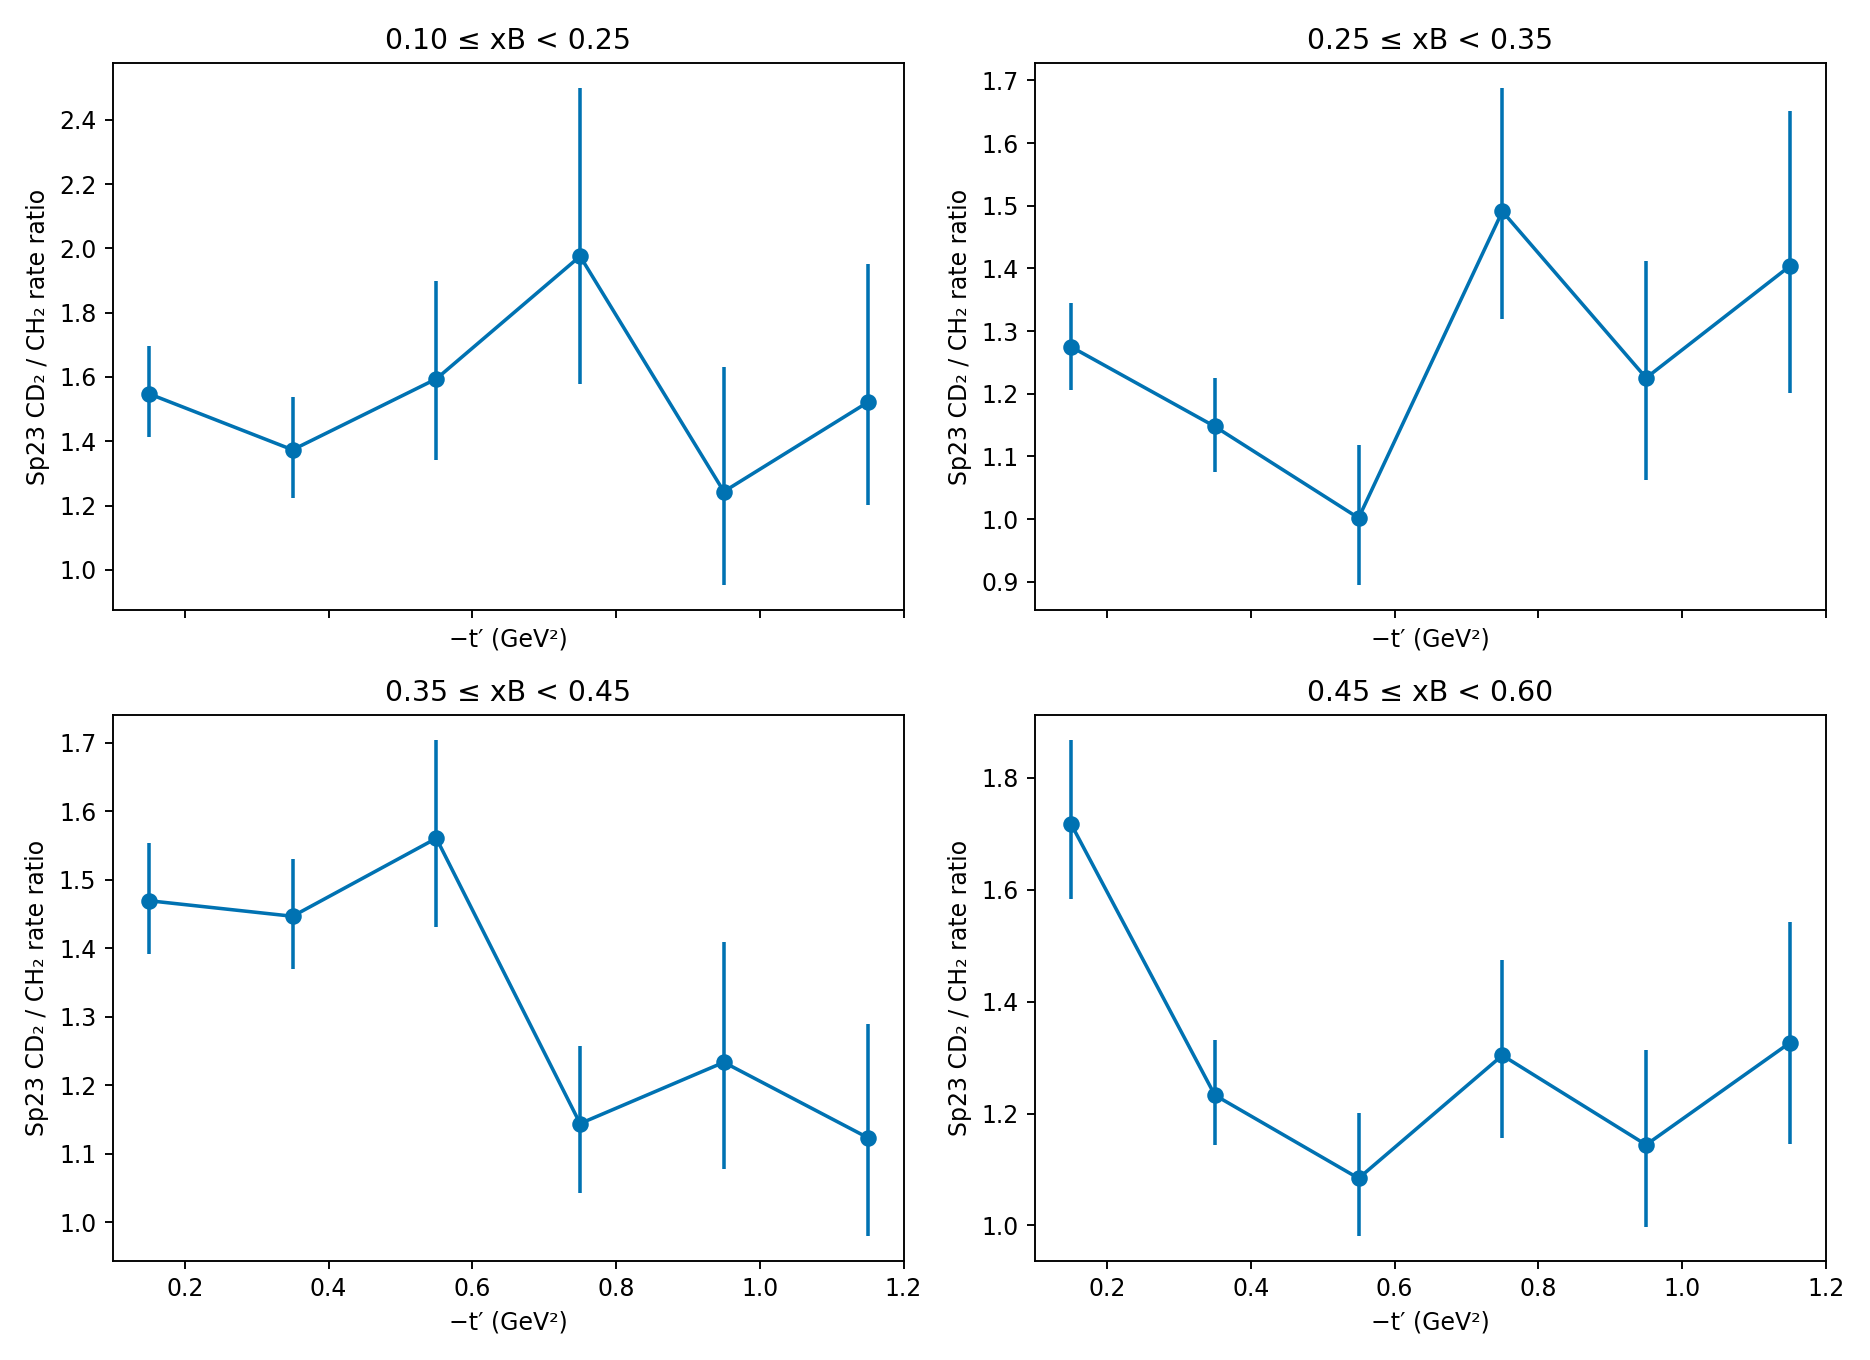
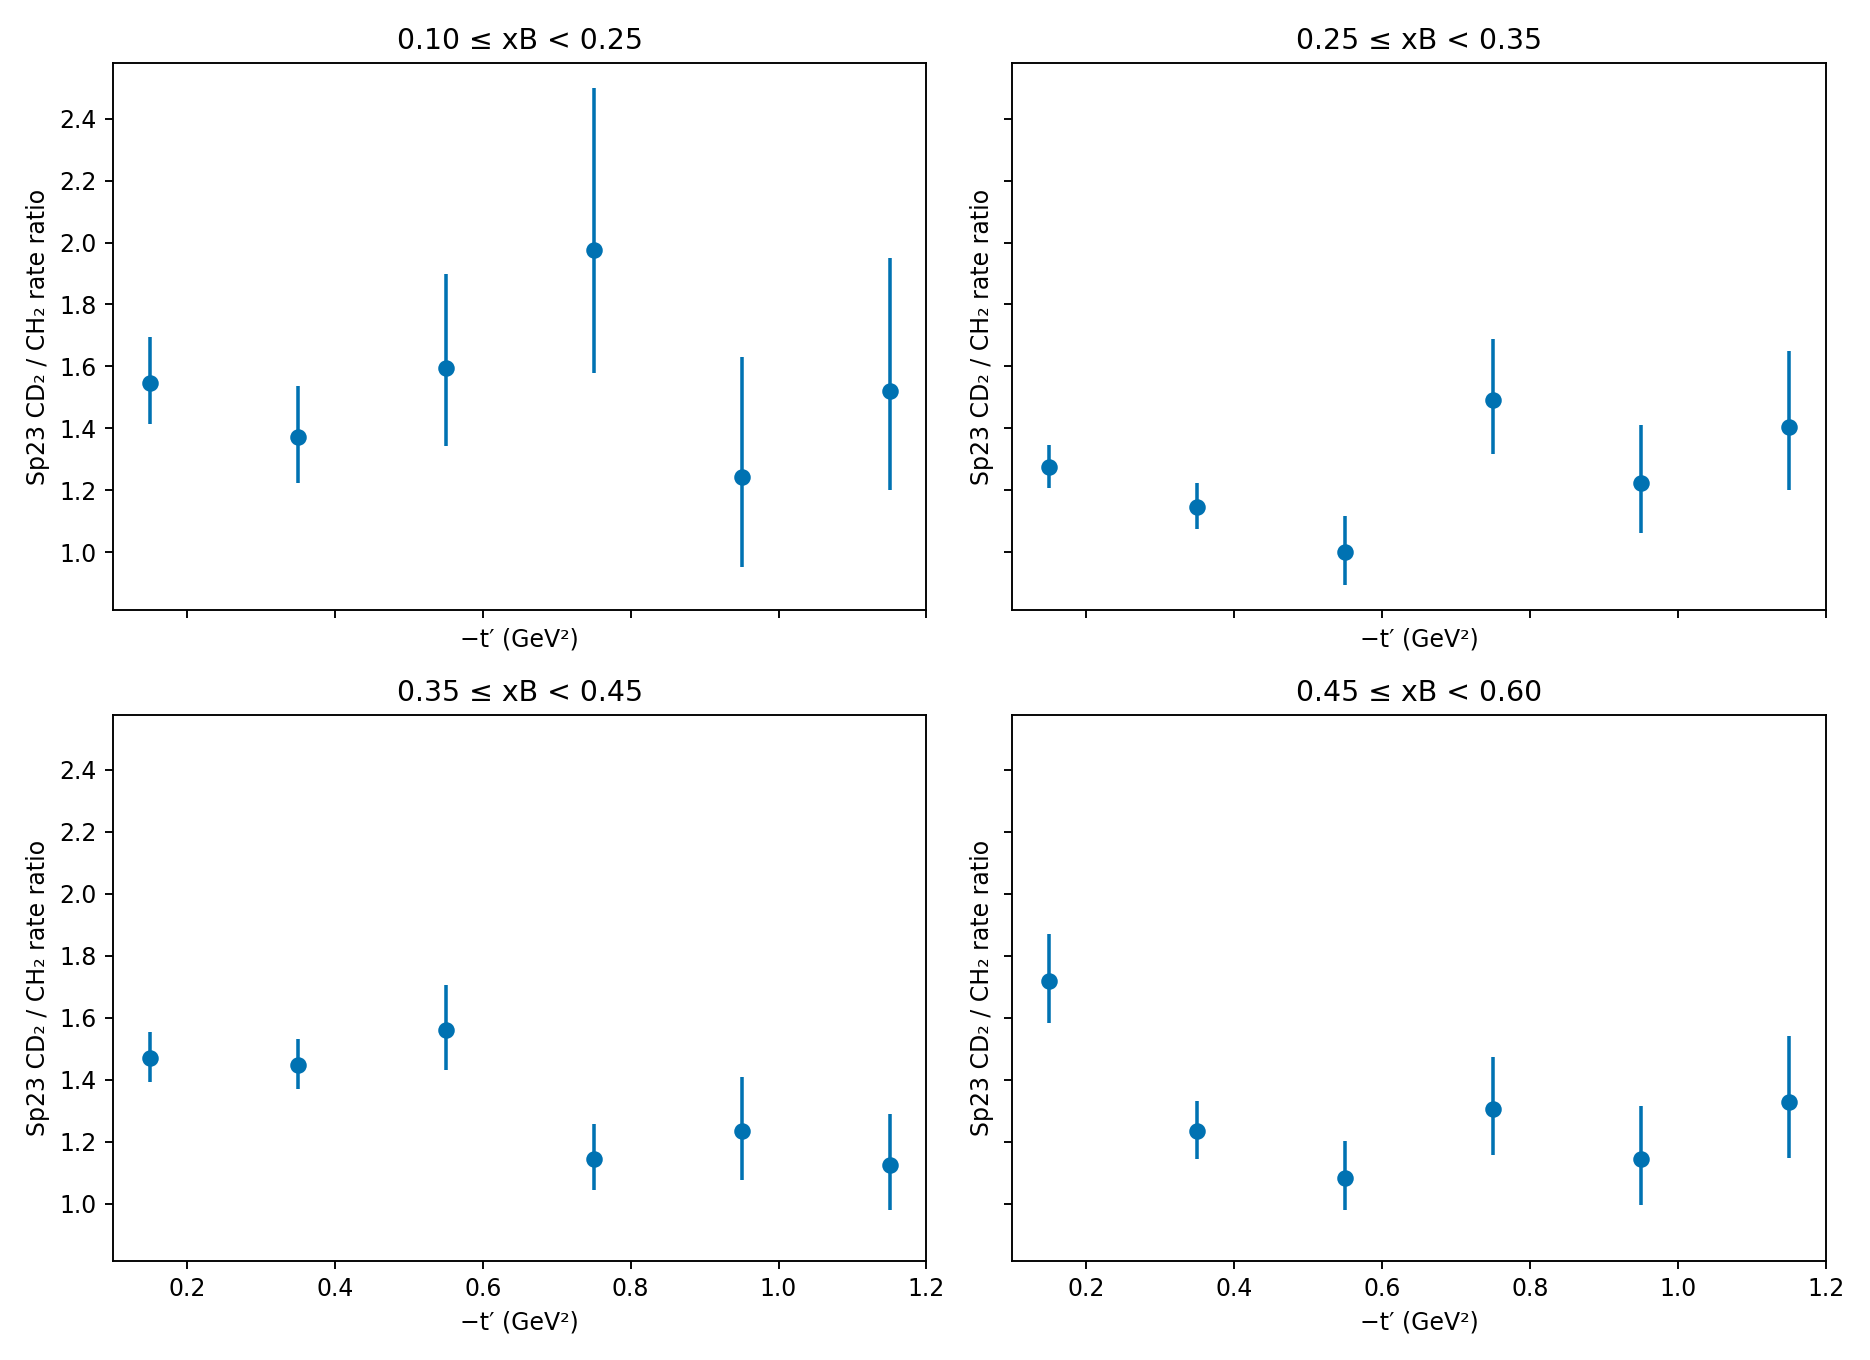
additional implementation of eppi- dilution factor

diff --git a/analysis_scripts/RGC_eppi-/dilution_factor/determine_dilution_factor.py b/analysis_scripts/RGC_eppi-/dilution_factor/determine_dilution_factor.py
@@ -151,7 +151,7 @@ def plots(output, rows, transfer_rows):
     folder.mkdir(exist_ok=True)
     colors = ['#0072B2', '#D55E00', '#009E73']
     for variable, ylabel in [('dilution', 'Dilution factor'), ('packing_fraction', 'Cell packing fraction')]:
-        fig, axes = plt.subplots(2, 2, figsize=(11, 8), sharex=True)
+        fig, axes = plt.subplots(2, 2, figsize=(11, 8), sharex=True, sharey=True)
         for ix, ax in enumerate(axes.flat):
             for label, color in zip(LABELS, colors):
                 values = [r for r in rows if r['period'] == label and (r['bin']-1)//6 == ix]
@@ -160,7 +160,7 @@ def plots(output, rows, transfer_rows):
                 # Quantile intervals remain readable when rare denominator crossings inflate SD.
                 lo = np.array([r[variable+'_q16'] if r[variable+'_q16'] is not None else np.nan for r in values])
                 hi = np.array([r[variable+'_q84'] if r[variable+'_q84'] is not None else np.nan for r in values])
-                ax.plot(x, y, 'o-', ms=4, color=color, label=label)
+                ax.plot(x, y, 'o', ms=4, color=color, label=label)
                 ax.vlines(x, lo, hi, color=color, alpha=.7)
             ax.set_title(f'{XB[ix]:.2f} ≤ xB < {XB[ix+1]:.2f}')
             ax.axhline(0, color='gray', lw=.6)
@@ -170,16 +170,62 @@ def plots(output, rows, transfer_rows):
         fig.tight_layout()
         fig.savefig(folder/(variable+'.png'), dpi=170)
         plt.close(fig)
-    fig, axes = plt.subplots(2, 2, figsize=(11, 8), sharex=True)
+    fig, axes = plt.subplots(2, 2, figsize=(11, 8), sharex=True, sharey=True)
     for ix, ax in enumerate(axes.flat):
         v = transfer_rows[ix*6:(ix+1)*6]
         x = (np.asarray(TP[:-1])+TP[1:])/2
-        ax.plot(x, [r['value'] for r in v], 'o-', color=colors[0])
+        ax.plot(x, [r['value'] for r in v], 'o', color=colors[0])
         ax.vlines(x, [r['stat_q16'] for r in v], [r['stat_q84'] for r in v], color=colors[0])
         ax.set(title=f'{XB[ix]:.2f} ≤ xB < {XB[ix+1]:.2f}', xlabel='−t′ (GeV²)', ylabel='Sp23 CD₂ / CH₂ rate ratio')
     fig.tight_layout()
     fig.savefig(folder/'cd2_ch2_transfer.png', dpi=170)
     plt.close(fig)
+
+
+def control_distributions(output, registry, charges):
+    """Sp23 measured yields, charge normalized. No synthetic CD2 or shape scaling."""
+    import uproot
+    import matplotlib
+    matplotlib.use('Agg')
+    import matplotlib.pyplot as plt
+    edges = np.linspace(TP[0], TP[-1], 25)
+    centers = (edges[:-1]+edges[1:])/2
+    histograms = {}
+    for target in ['CD2', 'CH2']:
+        name = 'RGC_spring2023_'+target
+        hist = np.zeros((4, 24), dtype=np.int64)
+        with uproot.open(registry['files'][name]['path']) as root:
+            for a in root[registry['tree']].iterate(['x', 'tprime'], library='np', step_size='20 MB'):
+                for ix in range(4):
+                    selected = (a['x'] >= XB[ix]) & (a['x'] < XB[ix+1])
+                    hist[ix] += np.histogram(-a['tprime'][selected], bins=edges)[0]
+        if hist.sum() != registry['files'][name]['selected_rows']:
+            raise ValueError(name+': distribution histogram lost selected candidates')
+        histograms[target] = hist
+    fig, axes = plt.subplots(2, 2, figsize=(11, 8), sharex=True, sharey=True)
+    rows = []
+    for ix, ax in enumerate(axes.flat):
+        for target, color, marker in [('CD2', '#0072B2', 'o'), ('CH2', '#D55E00', 's')]:
+            n = histograms[target][ix]
+            q = charges['spring2023'][target]
+            ax.errorbar(centers, 1e6*n/q, yerr=1e6*np.sqrt(n)/q,
+                        fmt=marker, linestyle='none', color=color, markersize=4,
+                        elinewidth=.9, label='Sp23 '+target.replace('2', '₂'))
+            for j, count in enumerate(n):
+                rows.append(dict(target=target, xB_low=XB[ix], xB_high=XB[ix+1],
+                                 minus_tprime_low=edges[j], minus_tprime_high=edges[j+1],
+                                 count=int(count), charge=q, rate=count/q,
+                                 rate_stat=np.sqrt(count)/q))
+        ax.set(title=f'{XB[ix]:.2f} ≤ xB < {XB[ix+1]:.2f}',
+               xlabel='−t′ (GeV²)', ylabel='10⁶ N / Q per bin')
+    ymax = max(np.max(1e6*(histograms[t]+np.sqrt(histograms[t]))/charges['spring2023'][t]) for t in histograms)
+    axes.flat[0].set_ylim(0, 1.08*ymax if ymax > 0 else 1)
+    axes.flat[0].legend()
+    fig.tight_layout()
+    (output/'figures').mkdir(exist_ok=True)
+    fig.savefig(output/'figures/cd2_ch2_distributions.png', dpi=170)
+    plt.close(fig)
+    write_csv(output/'cd2_ch2_distributions.csv', rows)
 
 
 def main():
@@ -271,6 +317,7 @@ def main():
     (out/'method1.json').write_text(json.dumps(clean(payload), indent=2, allow_nan=False)+'\n')
     np.savez_compressed(out/'statistical_covariance.npz', **covariance)
     plots(out, rows, transfer)
+    control_distributions(out, registry, charges)
     flagged = sum(bool(r['flags']) for r in rows)
     print(f'Finished: 72 period/bin estimates, {flagged} flagged for review. Outputs: {out.resolve()}')
     for row in packing_summary:

diff --git a/analysis_scripts/RGC_eppi-/dilution_factor/README.md b/analysis_scripts/RGC_eppi-/dilution_factor/README.md
@@ -39,7 +39,8 @@ Uncertainties assume independent candidate-combination counts, as in pi+. They d
 - `cd2_ch2_transfer.csv`: 24 Sp23 transfer ratios and uncertainties.
 - `packing_fraction_integrated.csv`: integrated cell packing cross-check per period.
 - `statistical_covariance.npz`: 72-by-72 dilution and packing covariance matrices. Order is Su22 bins 1-24, Fa22 bins 1-24, Sp23 bins 1-24. Covariance uses replicas finite in all 72 components. Complete-replica counts are recorded in JSON. The file contains separate DF and PF matrices, not their joint cross-covariance.
-- `figures/dilution.png`, `figures/packing_fraction.png`, `figures/cd2_ch2_transfer.png`.
+- `figures/dilution.png`, `figures/packing_fraction.png`, `figures/cd2_ch2_transfer.png`: unconnected points with matching y-axis ranges across each canvas.
+- `figures/cd2_ch2_distributions.png` and `cd2_ch2_distributions.csv`: measured Sp23 CD2 and CH2 yields divided by their respective good charges, versus minus-tprime in four xB panels. Uses 0.05 GeV² display bins. These do not change the 24-bin dilution calculation. Curves are not area normalized, and no areal-density conversion to nuclear luminosity is applied.
 
 Check `cutset_id` before combining these results with later asymmetry inputs. Review flags must be resolved before using the corresponding estimate as a nominal correction.
 
